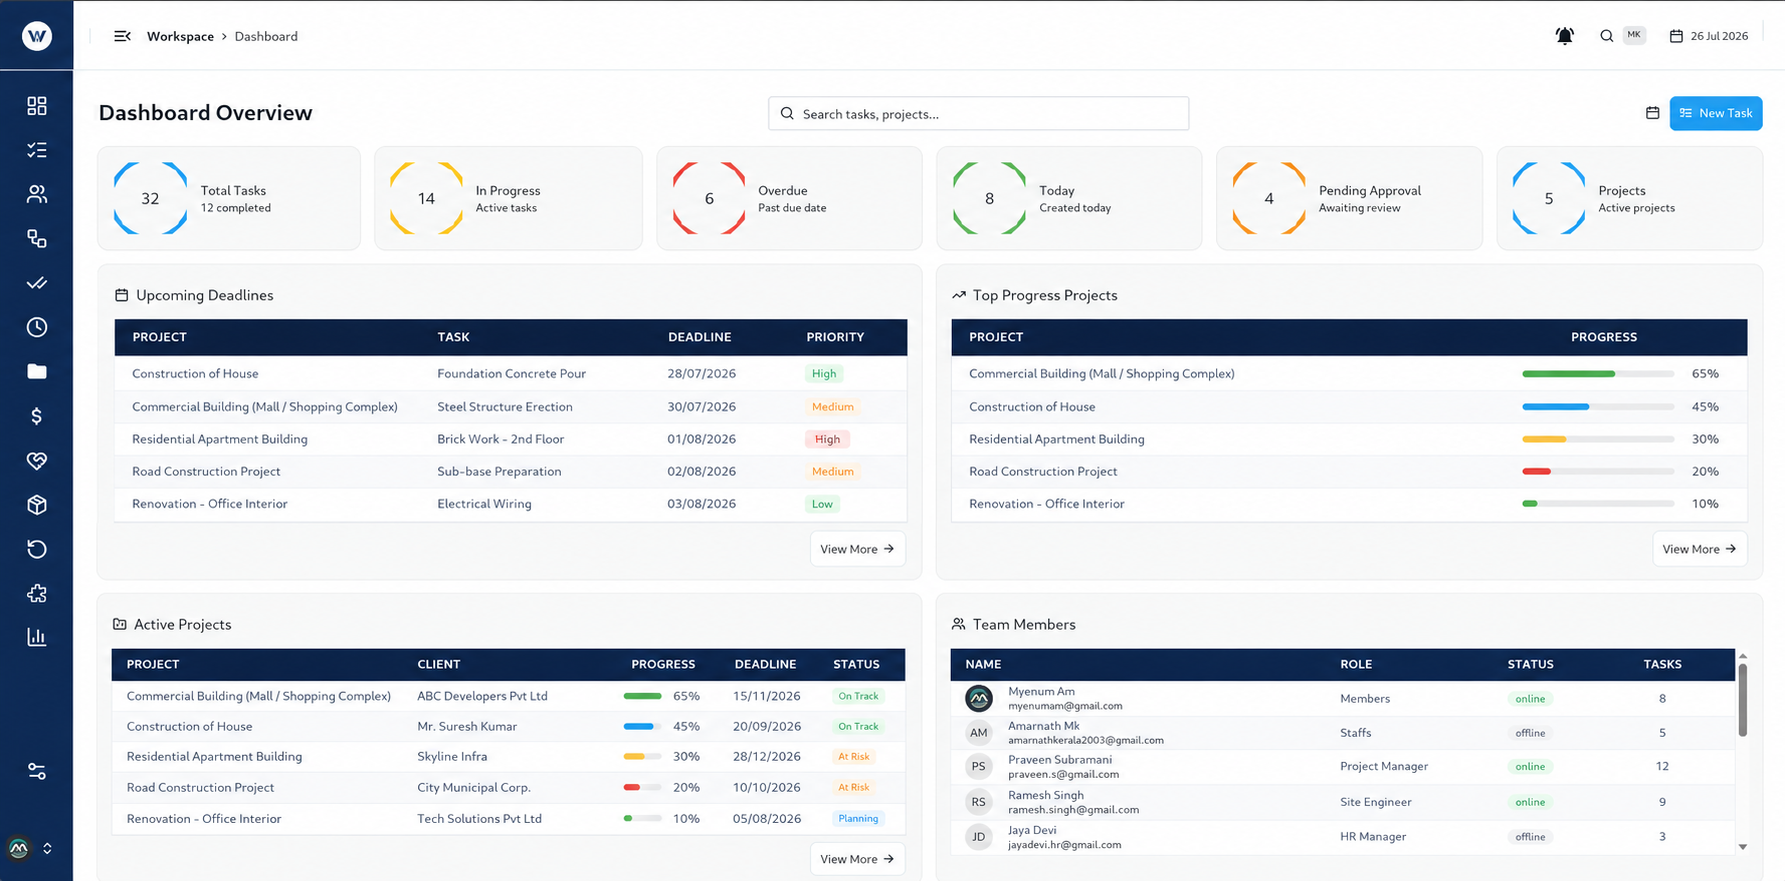
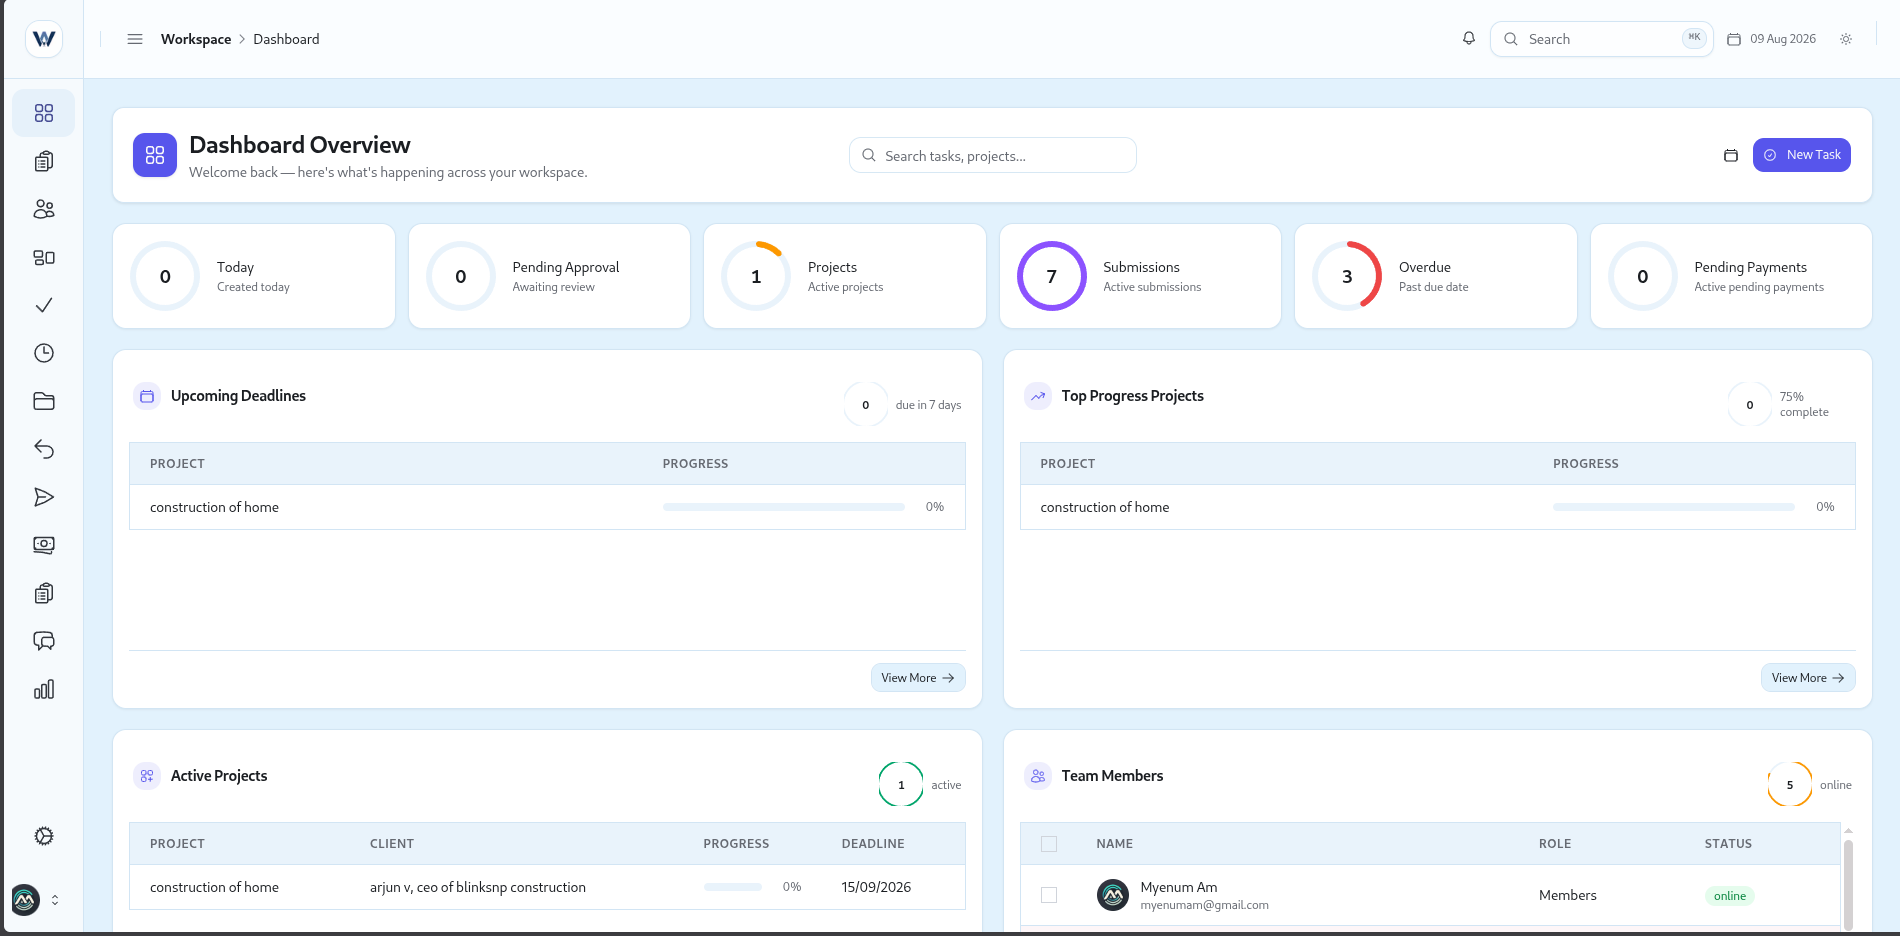
feat: add feature content panels for attendance, approvals, calendar, clients, reports, stocks
Extends the features page FEATURE_CONTENT with six new feature panels and
replaces the landing hero dashboard screenshot with a smaller asset.

diff --git a/frontend/app/features/page.tsx b/frontend/app/features/page.tsx
@@ -68,6 +68,78 @@ const FEATURE_CONTENT: Record<
       "Team folders with access control",
     ],
   },
+  attendance: {
+    eyebrow: "stay in sync",
+    title: "Attendance & Time-Off",
+    detail:
+      "Track today's attendance at a glance, log check-ins, and manage leave records so payroll and planning stay accurate.",
+    accent: "#8b5cf6",
+    bullets: [
+      "Real-time daily attendance overview",
+      "Leave and time-off tracking",
+      "Teacher-team roll-call reporting",
+    ],
+  },
+  approvals: {
+    eyebrow: "keep things moving",
+    title: "Approvals & Workflows",
+    detail:
+      "Route tasks and file uploads through a lightweight approval flow with clear pending, approved, and rejected states.",
+    accent: "#0ea5e9",
+    bullets: [
+      "Pending / approved / rejected states",
+      "Approval chain with timestamps",
+      "Full audit trail per request",
+    ],
+  },
+  calendar: {
+    eyebrow: "plan your week",
+    title: "Calendar & Scheduling",
+    detail:
+      "See projects, milestones, and appointments on a shared calendar so nothing slips between the cracks.",
+    accent: "#ec4899",
+    bullets: [
+      "Shared workspace calendar",
+      "Upcoming tasks and deadlines",
+      "Appointments and reminders",
+    ],
+  },
+  clients: {
+    eyebrow: "grow relationships",
+    title: "Clients & Contractors",
+    detail:
+      "Keep clients, contractors, and staffing in one directory with contact details, project links, and engagement history.",
+    accent: "#14b8a6",
+    bullets: [
+      "Unified client and contractor directory",
+      "Project and engagement history",
+      "Staff and team assignment",
+    ],
+  },
+  reports: {
+    eyebrow: "see performance",
+    title: "Reports & Analytics",
+    detail:
+      "Turn timesheets, tasks, and performance into clear reports that help leadership make confident decisions.",
+    accent: "#ef4444",
+    bullets: [
+      "Time and workload reports",
+      "Per-team performance insights",
+      "Exportable, shareable summaries",
+    ],
+  },
+  stocks: {
+    eyebrow: "stay stocked",
+    title: "Stocks & Inventory",
+    detail:
+      "Monitor inventory levels with real-time stock in/out, low-stock alerts, and simple item records.",
+    accent: "#10b981",
+    bullets: [
+      "Live stock-in and stock-out tracking",
+      "Low-stock and out-of-stock alerts",
+      "Item-level inventory records",
+    ],
+  },
 };
 
 function FeaturePanel({ id }: { id: string }) {
